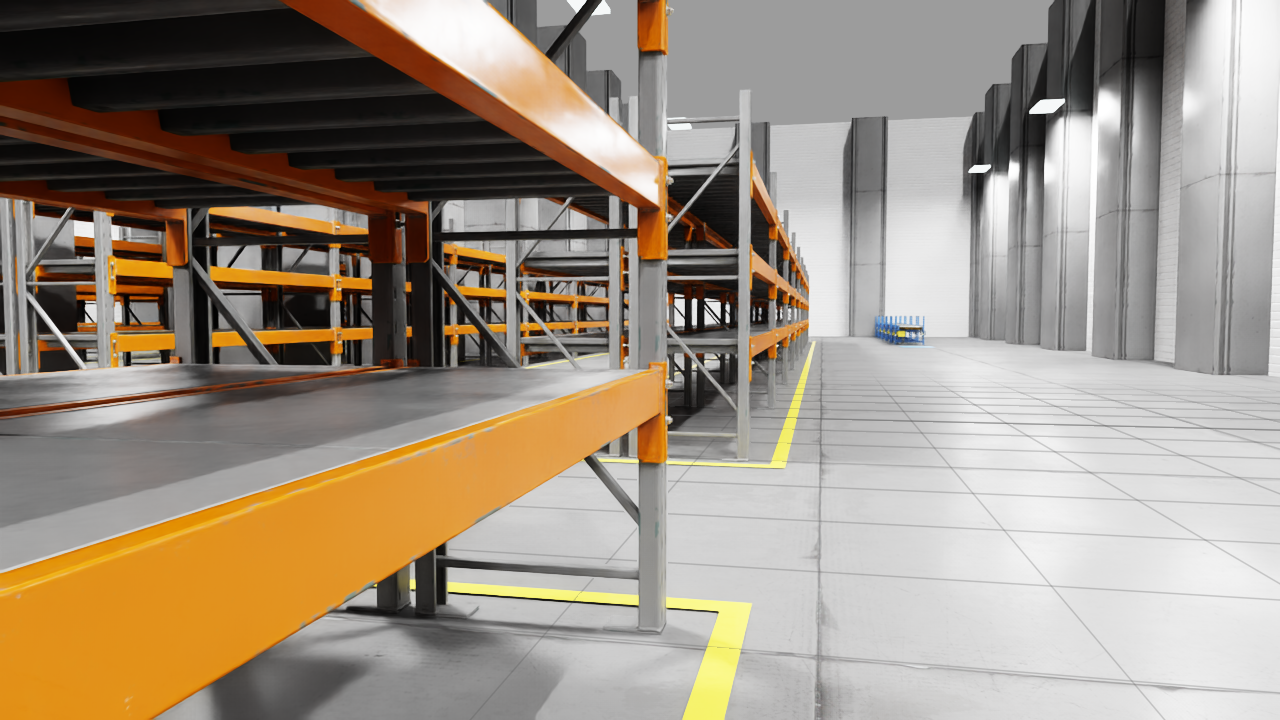
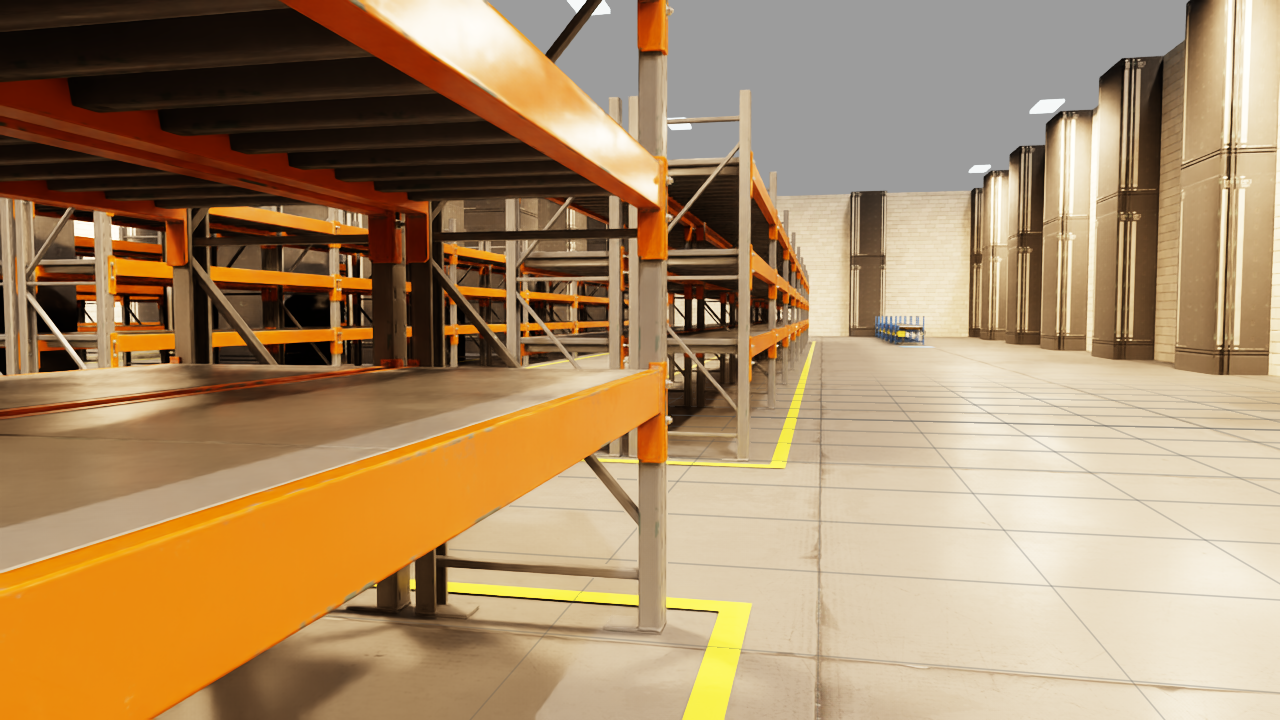
feat: 씬 톤 조정 — 벽·기둥 8m 복귀, 베이지 톤, 온백색 조명
- 벽 높이 12→8m 복귀 (사용자 피드백)
- 순백 눈부심 해소: OmniPBR + 원본 텍스처(T_WallA/T_WallBoard D+N) + 베이지
  diffuse_tint (벽 0.85/0.78/0.64 · 기둥 한 단계 짙게 — 텍스처 디테일 유지)
- 조명 색온도: 현수등 3800K(온백색) · 태양 5000K
- V&V 불변 재확인 (100% / 98.6% / 0셀)

diff --git a/sil/t3_warehouse/build_scene.py b/sil/t3_warehouse/build_scene.py
@@ -39,7 +39,7 @@ FRAME_USD = ASSETS + "/Isaac/Environments/Simple_Warehouse/Props/SM_RackFrame_03
 MAT_DIR = ASSETS + "/Isaac/Environments/Simple_Warehouse/Materials"
 
 CELL = 0.1                      # m/셀 (map_gen과 동일)
-WALL_H = 12.0                   # 산업 고층고 가정 (도면에 층고 정보 없음 — 시각용, 라이다 무관)
+WALL_H = 8.0                    # 산업 표준고 가정 (도면에 층고 정보 없음 — 시각용, 라이다 무관)
 CONV_H = 0.9                    # 라이다 평면(0.7m) 위 — 가시(콜라이더)
 
 # 컨베이어 비주얼 — ConveyorBelt_A08 직선 섹션 (컴포즈 실측 2.719x1.15x1.17, 피벗 동측 끝)
@@ -143,6 +143,23 @@ def add_quad(stage, path, x0, y0, x1, y1, z, uv_scale, flip=False):
     return mesh
 
 
+def bind_omnipbr(stage, prim, name, diffuse_tex, normal_tex, tint):
+    """OmniPBR + 원본 텍스처 + 틴트 — 순정 MDL은 톤 조절 입력을 못 믿어 직접 조립."""
+    path = f"/World/Looks/{name}"
+    mtl = UsdShade.Material.Define(stage, path)
+    sh = UsdShade.Shader.Define(stage, path + "/Shader")
+    sh.CreateImplementationSourceAttr(UsdShade.Tokens.sourceAsset)
+    sh.SetSourceAsset(Sdf.AssetPath("OmniPBR.mdl"), "mdl")
+    sh.SetSourceAssetSubIdentifier("OmniPBR", "mdl")
+    sh.CreateInput("diffuse_texture", Sdf.ValueTypeNames.Asset).Set(Sdf.AssetPath(diffuse_tex))
+    sh.CreateInput("normalmap_texture", Sdf.ValueTypeNames.Asset).Set(Sdf.AssetPath(normal_tex))
+    sh.CreateInput("diffuse_tint", Sdf.ValueTypeNames.Color3f).Set(Gf.Vec3f(*tint))
+    sh.CreateInput("reflection_roughness_constant", Sdf.ValueTypeNames.Float).Set(0.75)
+    out = sh.CreateOutput("out", Sdf.ValueTypeNames.Token)
+    mtl.CreateSurfaceOutput("mdl").ConnectToSource(out)
+    UsdShade.MaterialBindingAPI.Apply(prim.GetPrim()).Bind(mtl)
+
+
 def bind_mdl(stage, prim, name, mdl_file):
     """Simple_Warehouse MDL을 머티리얼로 정의해 prim(하위 상속)에 바인딩."""
     path = f"/World/Looks/{name}"
@@ -178,6 +195,8 @@ bind_mdl(stage, floor, "MI_Floor_01", MAT_DIR + "/MI_Floor_01.mdl")
 # 개방 지붕 — 태양광(그림자·전역 밝기) + 조명 그리드(현수등, z 7.8~7.95 라이다 밴드 밖)
 sun = UsdLux.DistantLight.Define(stage, "/World/sun")
 sun.CreateIntensityAttr(1200)
+sun.CreateEnableColorTemperatureAttr(True)
+sun.CreateColorTemperatureAttr(5000.0)                    # 약간 따뜻한 주광
 UsdGeom.Xformable(sun.GetPrim()).AddRotateXYZOp().Set(Gf.Vec3f(0, -35, 25))
 UsdGeom.Xform.Define(stage, "/World/lights")
 n_light = 0
@@ -186,6 +205,8 @@ for gx in range(18, 111, 12):
         L = UsdLux.RectLight.Define(stage, f"/World/lights/L_{gx}_{gy}")
         L.CreateIntensityAttr(30000)
         L.CreateExposureAttr(5.0)                         # x32 — 30000 단독으론 실내가 암흑 (실측)
+        L.CreateEnableColorTemperatureAttr(True)
+        L.CreateColorTemperatureAttr(3800.0)              # 온백색(약간 황색) 산업등
         L.CreateWidthAttr(1.2)
         L.CreateHeightAttr(0.6)
         xfl = UsdGeom.Xformable(L.GetPrim())
@@ -209,9 +230,13 @@ for i, (r0, c0, h, w) in enumerate(walls):
     parent = "columns" if small else "walls"
     add_box_mesh(stage, f"/World/{parent}/w_{i}", c0 * CELL, r0 * CELL, w * CELL, h * CELL, 0.0, WALL_H)
     n_colbox += small
-bind_mdl(stage, walls_xf, "MI_WallA_01", MAT_DIR + "/MI_WallA_01.mdl")
-bind_mdl(stage, cols_xf, "MI_WallB_01", MAT_DIR + "/MI_WallB_01.mdl")
-print(f"[1] 벽 {len(walls) - n_colbox} + 기둥 {n_colbox} (타일링 UV 메시)")
+# 밝은 순백 벽이 눈부심 → 베이지 톤 (텍스처 디테일 유지, 기둥은 한 단계 짙게 구분)
+TEX = MAT_DIR + "/Textures"
+bind_omnipbr(stage, walls_xf, "WallBeige",
+             TEX + "/T_WallA_01_D.png", TEX + "/T_WallA_01_N.png", (0.85, 0.78, 0.64))
+bind_omnipbr(stage, cols_xf, "ColumnBeige",
+             TEX + "/T_WallBoard_01_D.png", TEX + "/T_WallBoard_01_N.png", (0.78, 0.71, 0.59))
+print(f"[1] 벽 {len(walls) - n_colbox} + 기둥 {n_colbox} (타일링 UV 메시, 베이지 톤)")
 
 # 2) 컨베이어 (셀값 5)
 convs = greedy_rects(grid == 5)
